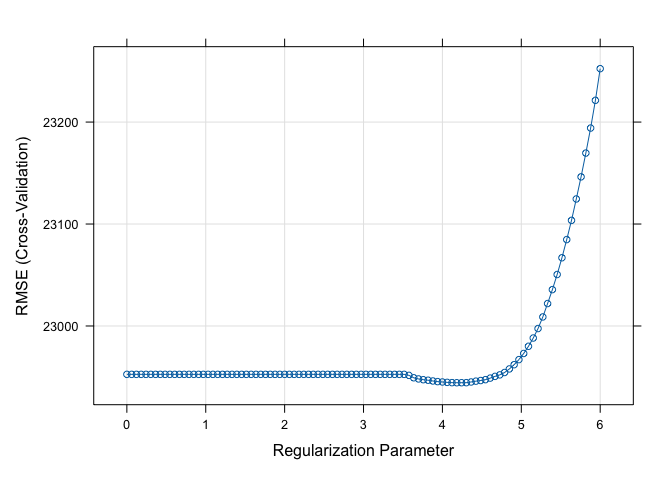
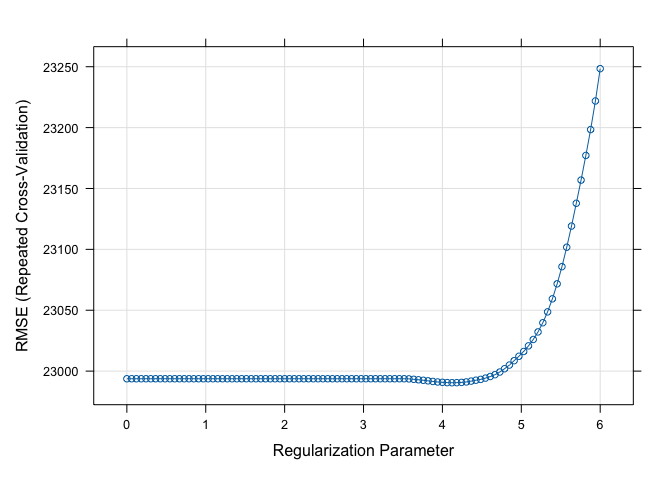
parts c & d

diff --git a/ds2_hw1.md b/ds2_hw1.md
@@ -43,7 +43,10 @@ predictors are included in the model?**
 
 ``` r
 # Using glmnet
-ctrl1 = trainControl(method = "cv", number = 10)
+ctrl1 = trainControl(method = "repeatedcv",
+                     number = 10,
+                     repeats = 5,
+                     selectionFunction = "best")
 
 set.seed(2025)
 lasso.fit =
@@ -62,8 +65,8 @@ plot(lasso.fit, xTrans = log)
 lasso.fit$bestTune
 ```
 
-    ##    alpha   lambda
-    ## 70     1 65.48481
+    ##    alpha  lambda
+    ## 69     1 61.6339
 
 ``` r
 # coefficients in the final model
@@ -72,46 +75,46 @@ coef(lasso.fit$finalModel, lasso.fit$bestTune$lambda)
 
     ## 40 x 1 sparse Matrix of class "dgCMatrix"
     ##                                       s1
-    ## (Intercept)                -4.827229e+06
-    ## gr_liv_area                 6.538426e+01
-    ## first_flr_sf                8.025639e-01
+    ## (Intercept)                -4.836395e+06
+    ## gr_liv_area                 6.543755e+01
+    ## first_flr_sf                7.999642e-01
     ## second_flr_sf               .           
-    ## total_bsmt_sf               3.541790e+01
-    ## low_qual_fin_sf            -4.093893e+01
-    ## wood_deck_sf                1.163406e+01
-    ## open_porch_sf               1.543115e+01
-    ## bsmt_unf_sf                -2.088742e+01
-    ## mas_vnr_area                1.090025e+01
-    ## garage_cars                 4.083736e+03
-    ## garage_area                 8.168146e+00
-    ## year_built                  3.233277e+02
-    ## tot_rms_abv_grd            -3.616290e+03
-    ## full_bath                  -3.840140e+03
-    ## overall_qualAverage        -4.853059e+03
-    ## overall_qualBelow_Average  -1.245648e+04
-    ## overall_qualExcellent       7.549879e+04
-    ## overall_qualFair           -1.075093e+04
-    ## overall_qualGood            1.212071e+04
-    ## overall_qualVery_Excellent  1.357075e+05
-    ## overall_qualVery_Good       3.789087e+04
-    ## kitchen_qualFair           -2.483806e+04
-    ## kitchen_qualGood           -1.720012e+04
-    ## kitchen_qualTypical        -2.531083e+04
-    ## fireplaces                  1.054387e+04
-    ## fireplace_quFair           -7.665787e+03
+    ## total_bsmt_sf               3.540696e+01
+    ## low_qual_fin_sf            -4.099739e+01
+    ## wood_deck_sf                1.165602e+01
+    ## open_porch_sf               1.547641e+01
+    ## bsmt_unf_sf                -2.088888e+01
+    ## mas_vnr_area                1.087575e+01
+    ## garage_cars                 4.091188e+03
+    ## garage_area                 8.148299e+00
+    ## year_built                  3.234411e+02
+    ## tot_rms_abv_grd            -3.629012e+03
+    ## full_bath                  -3.867530e+03
+    ## overall_qualAverage        -4.863474e+03
+    ## overall_qualBelow_Average  -1.247712e+04
+    ## overall_qualExcellent       7.536386e+04
+    ## overall_qualFair           -1.077495e+04
+    ## overall_qualGood            1.213092e+04
+    ## overall_qualVery_Excellent  1.354555e+05
+    ## overall_qualVery_Good       3.789907e+04
+    ## kitchen_qualFair           -2.493652e+04
+    ## kitchen_qualGood           -1.728827e+04
+    ## kitchen_qualTypical        -2.539112e+04
+    ## fireplaces                  1.058861e+04
+    ## fireplace_quFair           -7.677808e+03
     ## fireplace_quGood            .           
-    ## fireplace_quNo_Fireplace    1.438181e+03
-    ## fireplace_quPoor           -5.640226e+03
-    ## fireplace_quTypical        -7.011019e+03
-    ## exter_qualFair             -3.332982e+04
-    ## exter_qualGood             -1.508538e+04
-    ## exter_qualTypical          -1.952240e+04
-    ## lot_frontage                9.963955e+01
-    ## lot_area                    6.042538e-01
-    ## longitude                  -3.293051e+04
-    ## latitude                    5.507513e+04
-    ## misc_val                    8.278839e-01
-    ## year_sold                  -5.601503e+02
+    ## fireplace_quNo_Fireplace    1.511070e+03
+    ## fireplace_quPoor           -5.651580e+03
+    ## fireplace_quTypical        -7.012976e+03
+    ## exter_qualFair             -3.356377e+04
+    ## exter_qualGood             -1.530384e+04
+    ## exter_qualTypical          -1.973755e+04
+    ## lot_frontage                9.979682e+01
+    ## lot_area                    6.043028e-01
+    ## longitude                  -3.303322e+04
+    ## latitude                    5.529084e+04
+    ## misc_val                    8.333497e-01
+    ## year_sold                  -5.648620e+02
 
 ``` r
 # test error
@@ -119,8 +122,8 @@ predictions = predict(lasso.fit, newdata = test_df)
 mse = mean((predictions - pull(test_df, "sale_price"))^2)
 ```
 
-The tuning parameter that minimizes CV error is 65.48481. The MSE
-associated with this model is 439967917.
+The tuning parameter that minimizes CV error is 61.6339. The MSE
+associated with this model is 440335429.
 
 ### Minimizing for 1SE
 
@@ -175,6 +178,8 @@ applicable, implement it to select the tuning parameters. If not,
 explain why.**
 
 ``` r
+set.seed(2025)
+
 enet.fit <- train(sale_price ~ .,
                   data = train_df,
                   method = "glmnet",
@@ -185,7 +190,7 @@ enet.fit$bestTune
 ```
 
     ##          alpha   lambda
-    ## 166 0.05263158 710.2781
+    ## 164 0.05263158 580.3529
 
 ``` r
 myCol <- rainbow(25)
@@ -204,46 +209,46 @@ coef(enet.fit$finalModel, enet.fit$bestTune$lambda)
 
     ## 40 x 1 sparse Matrix of class "dgCMatrix"
     ##                                       s1
-    ## (Intercept)                -5.127932e+06
-    ## gr_liv_area                 3.863982e+01
-    ## first_flr_sf                2.646422e+01
-    ## second_flr_sf               2.510967e+01
-    ## total_bsmt_sf               3.487656e+01
-    ## low_qual_fin_sf            -1.602950e+01
-    ## wood_deck_sf                1.237978e+01
-    ## open_porch_sf               1.699004e+01
-    ## bsmt_unf_sf                -2.067876e+01
-    ## mas_vnr_area                1.190003e+01
-    ## garage_cars                 4.012079e+03
-    ## garage_area                 9.117167e+00
-    ## year_built                  3.178099e+02
-    ## tot_rms_abv_grd            -3.350809e+03
-    ## full_bath                  -3.547688e+03
-    ## overall_qualAverage        -5.127109e+03
-    ## overall_qualBelow_Average  -1.267432e+04
-    ## overall_qualExcellent       7.628805e+04
-    ## overall_qualFair           -1.152800e+04
-    ## overall_qualGood            1.190476e+04
-    ## overall_qualVery_Excellent  1.373009e+05
-    ## overall_qualVery_Good       3.755653e+04
-    ## kitchen_qualFair           -2.317538e+04
-    ## kitchen_qualGood           -1.563756e+04
-    ## kitchen_qualTypical        -2.371099e+04
-    ## fireplaces                  1.072006e+04
-    ## fireplace_quFair           -7.966364e+03
-    ## fireplace_quGood            5.597628e+01
-    ## fireplace_quNo_Fireplace    1.495223e+03
-    ## fireplace_quPoor           -5.908039e+03
-    ## fireplace_quTypical        -7.052687e+03
-    ## exter_qualFair             -3.205560e+04
-    ## exter_qualGood             -1.367021e+04
-    ## exter_qualTypical          -1.832736e+04
-    ## lot_frontage                9.963098e+01
-    ## lot_area                    6.027902e-01
-    ## longitude                  -3.515993e+04
-    ## latitude                    5.744070e+04
-    ## misc_val                    8.545898e-01
-    ## year_sold                  -5.600438e+02
+    ## (Intercept)                -5.113316e+06
+    ## gr_liv_area                 3.888606e+01
+    ## first_flr_sf                2.659339e+01
+    ## second_flr_sf               2.534167e+01
+    ## total_bsmt_sf               3.495196e+01
+    ## low_qual_fin_sf            -1.596905e+01
+    ## wood_deck_sf                1.231770e+01
+    ## open_porch_sf               1.686371e+01
+    ## bsmt_unf_sf                -2.072999e+01
+    ## mas_vnr_area                1.165591e+01
+    ## garage_cars                 4.046669e+03
+    ## garage_area                 8.894532e+00
+    ## year_built                  3.191010e+02
+    ## tot_rms_abv_grd            -3.439303e+03
+    ## full_bath                  -3.693423e+03
+    ## overall_qualAverage        -5.113423e+03
+    ## overall_qualBelow_Average  -1.269944e+04
+    ## overall_qualExcellent       7.586249e+04
+    ## overall_qualFair           -1.145724e+04
+    ## overall_qualGood            1.197943e+04
+    ## overall_qualVery_Excellent  1.364598e+05
+    ## overall_qualVery_Good       3.765074e+04
+    ## kitchen_qualFair           -2.367794e+04
+    ## kitchen_qualGood           -1.610305e+04
+    ## kitchen_qualTypical        -2.415426e+04
+    ## fireplaces                  1.080415e+04
+    ## fireplace_quFair           -7.895400e+03
+    ## fireplace_quGood            1.050416e+02
+    ## fireplace_quNo_Fireplace    1.745086e+03
+    ## fireplace_quPoor           -5.840965e+03
+    ## fireplace_quTypical        -7.003111e+03
+    ## exter_qualFair             -3.285657e+04
+    ## exter_qualGood             -1.445844e+04
+    ## exter_qualTypical          -1.905526e+04
+    ## lot_frontage                1.001013e+02
+    ## lot_area                    6.031323e-01
+    ## longitude                  -3.514521e+04
+    ## latitude                    5.771438e+04
+    ## misc_val                    8.665642e-01
+    ## year_sold                  -5.730607e+02
 
 ``` r
 # MSE
@@ -251,10 +256,10 @@ enet.pred = predict(enet.fit, newdata = test_df)
 mean((enet.pred - pull(test_df, "sale_price"))^2)
 ```
 
-    ## [1] 437032337
+    ## [1] 438502352
 
 The optimal tuning parameters for the elastic net model are lambda =
-316.5799 and alpha = 0.05263158. The test error is 441832112.
+580.3529 and alpha = 0.05263158. The test error is 438502352.
 
 ``` r
 # Trying 1SE method
@@ -283,3 +288,91 @@ Using 1SE, the resulting tuning parameters are alpha = 0 and lambda =
 6554.314. The resulting test error is 426591709. Since the test errors
 are similar for both 1SE and CV methods, we can go ahead and use the 1SE
 method as well. **CHECK THIS**
+
+## Part c)
+
+**Fit a partial least squares model on the training data and report the
+test error. How many components are included in your model?**
+
+``` r
+set.seed(2025)
+
+pls_fit = train(sale_price ~ .,
+                data = train_df,
+                method = "pls",
+                tuneGrid = data.frame(ncomp = 1:(ncol(train_df)-1)),
+                trControl = ctrl1,
+                preProcess = c("center", "scale"))
+
+pred.pls = predict(pls_fit, newdata = test_df)
+mean((pred.pls - pull(test_df, "sale_price"))^2)
+```
+
+    ## [1] 449622718
+
+``` r
+ggplot(pls_fit, highlight = TRUE)
+```
+
+![](ds2_hw1_files/figure-gfm/unnamed-chunk-6-1.png)<!-- -->
+
+The final model used 12 components.
+
+## Part d)
+
+**Choose the best model for predicting the response and explain your
+choice.**
+
+``` r
+resamp = resamples(list(
+  lasso = lasso.fit,
+  lasso_1SE = lasso.fit_1se,
+  elastic_net = enet.fit,
+  elastic_net_1SE = enet.fit_1se,
+  pls = pls_fit))
+
+summary(resamp)
+```
+
+    ## 
+    ## Call:
+    ## summary.resamples(object = resamp)
+    ## 
+    ## Models: lasso, lasso_1SE, elastic_net, elastic_net_1SE, pls 
+    ## Number of resamples: 50 
+    ## 
+    ## MAE 
+    ##                     Min.  1st Qu.   Median     Mean  3rd Qu.     Max. NA's
+    ## lasso           13537.09 15652.66 16706.03 16683.64 17460.55 20389.90    0
+    ## lasso_1SE       13741.05 15488.04 16760.51 16675.72 17582.44 20329.70    0
+    ## elastic_net     13538.68 15621.61 16685.48 16653.81 17464.58 20380.78    0
+    ## elastic_net_1SE 13923.44 15537.41 16736.04 16665.25 17662.25 20403.12    0
+    ## pls             13541.05 15705.61 16801.97 16743.35 17425.24 20449.02    0
+    ## 
+    ## RMSE 
+    ##                     Min.  1st Qu.   Median     Mean  3rd Qu.     Max. NA's
+    ## lasso           18494.38 21261.73 22627.67 22990.46 24204.20 28796.33    0
+    ## lasso_1SE       18772.02 21086.26 22889.89 23248.40 24683.32 29471.25    0
+    ## elastic_net     18510.31 21196.91 22596.01 22978.75 24164.42 28861.39    0
+    ## elastic_net_1SE 18980.70 21253.63 22998.71 23305.37 24567.25 29916.65    0
+    ## pls             18509.98 21294.47 22643.58 22987.04 24135.51 28679.31    0
+    ## 
+    ## Rsquared 
+    ##                      Min.   1st Qu.    Median      Mean   3rd Qu.      Max.
+    ## lasso           0.8630327 0.8935367 0.9037721 0.9027869 0.9126593 0.9360194
+    ## lasso_1SE       0.8571894 0.8902468 0.9004985 0.9007136 0.9114975 0.9382990
+    ## elastic_net     0.8624895 0.8934559 0.9033690 0.9029035 0.9131980 0.9367516
+    ## elastic_net_1SE 0.8537071 0.8918571 0.8991045 0.9007256 0.9098063 0.9350768
+    ## pls             0.8639320 0.8933068 0.9036110 0.9028056 0.9128070 0.9361768
+    ##                 NA's
+    ## lasso              0
+    ## lasso_1SE          0
+    ## elastic_net        0
+    ## elastic_net_1SE    0
+    ## pls                0
+
+``` r
+bwplot(resamp, metric = "RMSE")
+```
+
+![](ds2_hw1_files/figure-gfm/unnamed-chunk-7-1.png)<!-- -->
